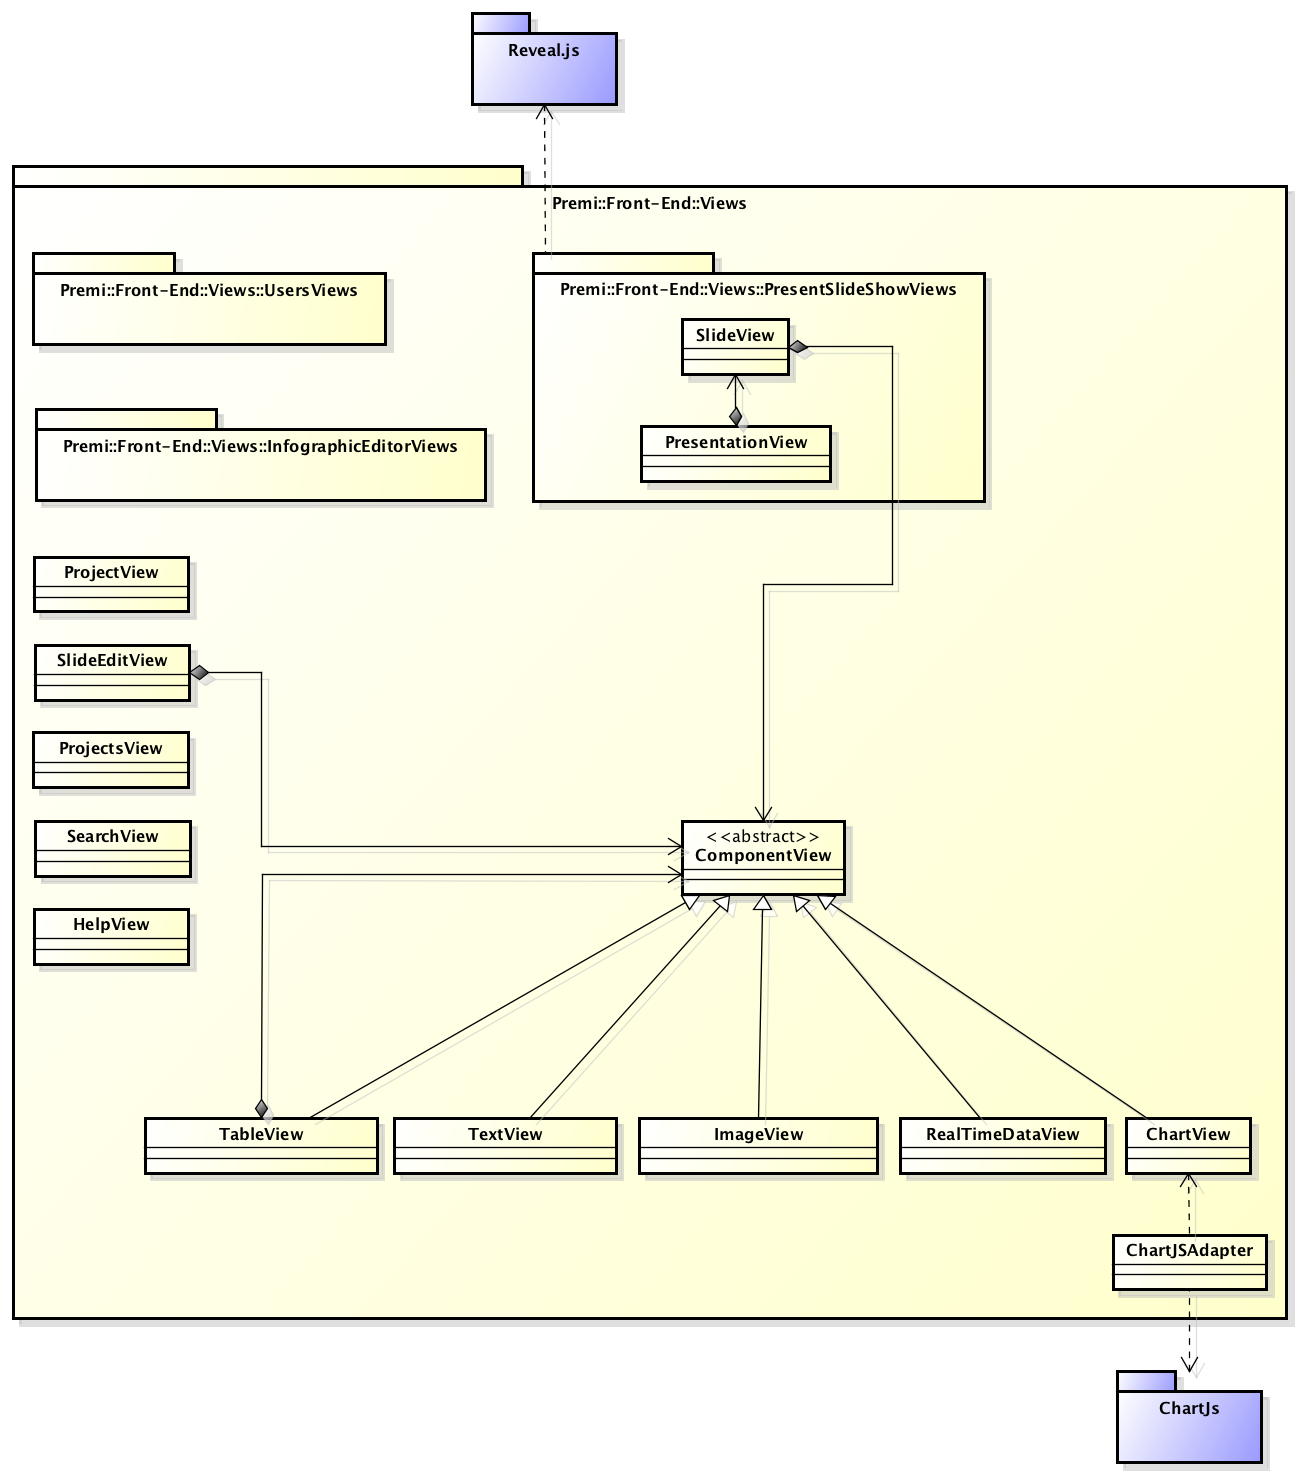
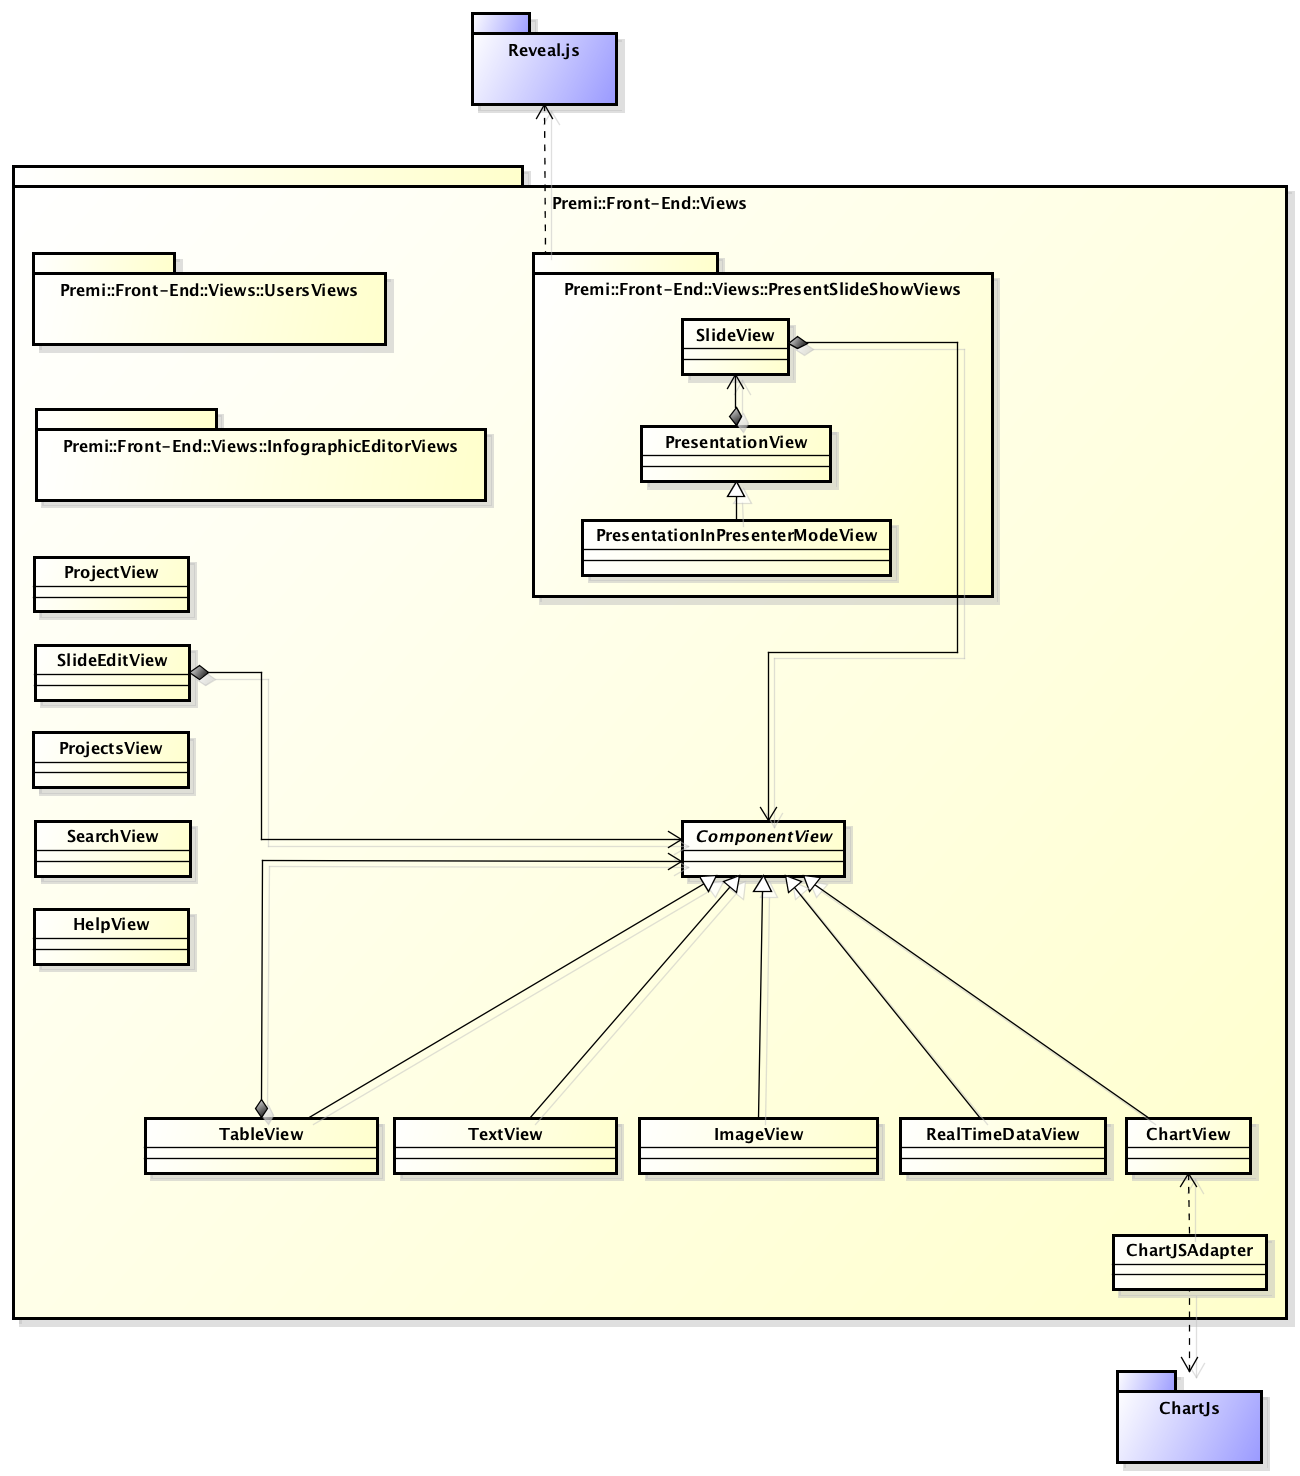
documento verificato e corretto

diff --git a/esterni/specifica_tecnica/section/diagrammi_di_attivita.tex b/esterni/specifica_tecnica/section/diagrammi_di_attivita.tex
@@ -15,7 +15,7 @@ L'utente una volta avviato il programma ha la possibilità di \textit{Effettuare
 \subsection{Ricerca di un progetto}
 \begin{figure}[h] 
 	\centering 
-	\includegraphics[scale=0.3] {img/activity_ricerca.png}
+	\includegraphics[width=0.9\linewidth] {img/activity_ricerca.png}
 	\caption{Diagramma attività - Ricerca di un progetto} 
 \end{figure}
 L'attività di ricerca di un progetto in figura 31 comprende le azioni di ricerca tramite titolo del progetto, ricerca tramite nome utente e visualizzazione dei risultati della ricerca. Una volta visualizzati i risultati, opzionalmente l'utente può effettuare un'altra ricerca.
@@ -24,7 +24,7 @@ L'attività di ricerca di un progetto in figura 31 comprende le azioni di ricerc
 \subsection{Visualizzare un progetto}
 \begin{figure}[h] 
 	\centering 
-	\includegraphics[scale=0.3] {img/activity_visualizza.png}
+	\includegraphics[width=0.9\linewidth] {img/activity_visualizza.png}
 	\caption{Diagramma attività - Visualizzare un progetto} 
 \end{figure}
 L'attività di visualizzazione di un progetto in figura 32 permette all'utente, una volta scelto il progetto, di visualizzare la presentazione oppure l'\gls{infografica} legata al progetto (se essa é disponibile). Nel caso si scelga di visualizzare una presentazione l'utente può scegliere se visualizzarla in modalità ascoltatore o presentatore, una volta fatta la decisione si può muovere tra le \gls{slide}.
@@ -44,7 +44,7 @@ La figura 33 rappresenta l'attività di registrazione di un utente. Una volta pr
 \subsection{Autenticazione}
 \begin{figure}[h] 
 	\centering 
-	\includegraphics[scale=0.3] {img/activity_login.png}
+	\includegraphics[width=0.9\linewidth] {img/activity_login.png}
 	\caption{Diagramma attività - Autenticazione} 
 \end{figure}
 L'attività di autenticazione in figura 34 permette all'utente di inserire le proprie credenziali, di annullarne l'inserimento nel caso in cui si sbagli a digitarle e di confermarle. Nel caso in cui l'utente non ricordi più le proprie credenziali ha la possibilità di eseguire la procedura di recupero dei propri dati, alla fine della quale viene riportato alla pagina di login.
@@ -54,7 +54,7 @@ L'attività di autenticazione in figura 34 permette all'utente di inserire le pr
 \subsection{Creazione di un progetto}
 \begin{figure}[h] 
 	\centering 
-	\includegraphics[scale=0.3] {img/activity_creazione.png}
+	\includegraphics[width=0.6\linewidth] {img/activity_creazione.png}
 	\caption{Diagramma attività - Creazione di un progetto} 
 \end{figure}
 L'attività di creazione in figura 35 permette ad un utente autenticato di creare un nuovo progetto, di selezionare dove sarà salvato il progetto e richiede di inserire un titolo e di scegliere un \gls{template}.
@@ -64,7 +64,7 @@ L'attività di creazione in figura 35 permette ad un utente autenticato di crear
 \subsection{Apertura di un progetto}
 \begin{figure}[h] 
 	\centering 
-	\includegraphics[scale=0.3] {img/activity_apertura.png}
+	\includegraphics[width=0.7\linewidth] {img/activity_apertura.png}
 	\caption{Diagramma attività - Apertura di un progetto} 
 \end{figure}
 L'attività di apertura di un progetto in figura 36 permette all'utente di navigare il file system e di scegliere quale progetto deve essere aperto.
@@ -73,7 +73,7 @@ L'attività di apertura di un progetto in figura 36 permette all'utente di navig
 \subsection{Modifica di un progetto}
 \begin{figure}[h] 
 	\centering 
-	\includegraphics[scale=0.3] {img/activity_modifica.png}
+	\includegraphics[width=0.9\linewidth] {img/activity_modifica.png}
 	\caption{Diagramma attività - Modifica di un progetto} 
 \end{figure}
 L'attività di modifica in figura 37 permette all'utente di inserire e modificare elementi (come testo, immagini, grafici, ecc...) nella presentazione corrente. L'utente può inoltre aggiungere e rimuovere \gls{slide}, scegliere un diverso \gls{template} e cambiare l'effetto di transizione tra una \gls{slide} e l'altra.
@@ -82,7 +82,7 @@ L'attività di modifica in figura 37 permette all'utente di inserire e modificar
 \subsection{Salvataggio di un progetto}
 \begin{figure}[h] 
 	\centering 
-	\includegraphics[scale=0.3] {img/activity_salvataggio.png}
+	\includegraphics[width=0.6\linewidth] {img/activity_salvataggio.png}
 	\caption{Diagramma attività - Salvataggio di un progetto} 
 \end{figure}
 La figura 38 rappresenta l'attività di salvataggio di un progetto. Lo schema indica la possibilità per l'utente di navigare il file system e di scegliere un nome per il progetto da salvare o di selezionare un progetto già esistente da sovrascrivere.

diff --git a/esterni/specifica_tecnica/section/front_end_views.tex b/esterni/specifica_tecnica/section/front_end_views.tex
@@ -1,7 +1,7 @@
 	\subsubsection*{Informazioni sul package}
 		\begin{figure}[h]
 			\centering
-			\includegraphics[width=0.7\linewidth]{img/front-end_views}
+			\includegraphics[width=0.9\linewidth]{img/front-end_views}
 			\caption[Premi::Front-End::Views]{Premi::Front-End::Views}
 		\end{figure}
 		Il package contiene gli elementi per creare la parte grafica del \gls{front-end}, la visualizzazione delle pagine e dell'editor del progetto.
@@ -35,7 +35,7 @@
 
 		\item Premi::Front-End::Views::ProjectView:
 		\begin{itemize}
-			\item \textbf{Descrizione}: classe per la gestione della pagina del progetto attualmente aperto dall'utente.
+			\item \textbf{Descrizione}: classe per la gestione di una pagina relativa ad un progetto.
 		\end{itemize}
 
 		\item Premi::Front-End::Views::SlideEditView:
@@ -171,19 +171,27 @@
 		\begin{itemize}
 			\item Premi::Front-End::Views::PresentSlideShowViews::SlideView:
 			\begin{itemize}
-				\item \textbf{Descrizione}: classe per creare la parte grafica di una \gls{slide} nella visualizzazione di una presentazione. È composta da oggetti della classe ComponentView,o sue derivate;
+				\item \textbf{Descrizione}: classe per creare la parte grafica di una \gls{slide} nella visualizzazione di una presentazione. È composta da oggetti della classe ComponentView;
 				\item \textbf{Relazioni con altre classi}:
 				\begin{itemize}
 					\item Premi::Front-End::Views::ComponentView.
 				\end{itemize}
 			\end{itemize}
+				\item Premi::Front-End::Views::PresentSlideShowViews::PresentationView:
+				\begin{itemize}
+					\item \textbf{Descrizione}: classe per creare la parte grafica di una \gls{slide} nella visualizzazione di una presentazione;
+					\item \textbf{Relazioni con altre classi}:
+					\begin{itemize}
+						\item Premi::Front-End::Views::SlideView.
+					\end{itemize}
+				\end{itemize}
 
 			\item Premi::Front-End::Views::PresentSlideShowViews::PresentationInPresenterModeView:
 			\begin{itemize}
-				\item \textbf{Descrizione}: classe per creare la parte grafica di una \gls{slide} nella visualizzazione di una presentazione nella modalità presentatore. È composta da oggetti della classe SlideView in quanto la contiene implementandola;
+				\item \textbf{Descrizione}: classe per creare la parte grafica di una \gls{slide} nella visualizzazione di una presentazione nella modalità presentatore. Estende la classe Premi::Front-End::Views::PresentSlideShowViews::PresentationView;
 				\item \textbf{Relazioni con altre classi}:
 				\begin{itemize}
-					\item Premi::Front-End::Views::PresentSlideShowViews::SlideView.
+					\item Premi::Front-End::Views::PresentSlideShowViews::PresentationView.
 				\end{itemize}
 			\end{itemize}
 		\end{itemize}

diff --git a/esterni/specifica_tecnica/section/front_end_controller.tex b/esterni/specifica_tecnica/section/front_end_controller.tex
@@ -91,7 +91,16 @@
 			\end{itemize}
 			
 		\end{itemize}
+		
+\newpage
 \subsection{Premi::Front-End::Controller::PresentSlideShowController}
+\begin{figure}[h]
+\centering
+\includegraphics[width=0.7\linewidth]{img/front-end_controller_presentslideshowcontroller}
+\caption[Premi::Front-End::Controller::PresentSlideShowController]{Premi::Front-End::Controller::PresentSlideShowController}
+\label{fig:front-end_controller_presentslideshowcontroller}
+\end{figure}
+
 	\begin{itemize}
 		 \item Premi::Front-End::Controller::PresentSlideShowController::SlideController:
 			\begin{itemize}
@@ -108,7 +117,15 @@
 			\end{itemize}
 	\end{itemize}
 	
+\newpage	
 \subsection{Premi::Front-End::Controller::InfographicEditorController}
+\begin{figure}[h]
+\centering
+\includegraphics[width=0.7\linewidth]{img/front-end_controller_infographiceditorcontroller}
+\caption[Premi::Front-End::Controller::InfographicEditorController]{Premi::Front-End::Controller::InfographicEditorController}
+\label{fig:front-end_controller_infographiceditorcontroller}
+\end{figure}
+
 	\begin{itemize}
 		 \item Premi::Front-End::Controller::InfographicEditorController::InfographicEditorController:
 			\begin{itemize}
@@ -121,6 +138,13 @@
 	\end{itemize}
 	
 \subsection{Premi::Front-End::Controller::UserController}
+\begin{figure}[h]
+\centering
+\includegraphics[width=0.7\linewidth]{img/front-end_controller_usercontroller}
+\caption[Premi::Front-End::Controller::UserController]{Premi::Front-End::Controller::UserController}
+\label{fig:front-end_controller_usercontroller}
+\end{figure}
+
 	\begin{itemize}
 		% \item Premi::Front-End::Controller::UserController::UserController:
 		%	\begin{itemize}

diff --git a/esterni/specifica_tecnica/section/front_end_model.tex b/esterni/specifica_tecnica/section/front_end_model.tex
@@ -10,7 +10,7 @@
 		\begin{itemize}
 		 \item Premi::Front-End::Model::Projects:
 			\begin{itemize}
-				\item \textbf{Descrizione}:classe per la gestione di una collezione di progetti.Un progetto racchiude una presentazione e zero o più infografiche.
+				\item \textbf{Descrizione}: classe per la gestione di una collezione di progetti.Un progetto racchiude una presentazione e zero o più infografiche.
 				\item \textbf{Relazioni con altre classi}:
 				\begin{itemize}
 					\item Premi::Front-End::Model::Project.
@@ -21,13 +21,13 @@
 				\item \textbf{Descrizione}: classe per la gestione di un progetto.
 				\item \textbf{Relazioni con altre classi}:
 				\begin{itemize}
-					\item Premi::Front-End::Model::Presentation.
+					\item Premi::Front-End::Model::Presentation;
 					\item Premi::Front-End::Model::Infographic.
 				\end{itemize}
 			\end{itemize}
 		 \item  Premi::Front-End::Model::Infographic:
 			\begin{itemize}
-				\item \textbf{Descrizione}: classe per la gestione di una \gls{infografica}. Un'\gls{infografica} ha il compito di raggruppare piu \gls{slide} in un \gls{template} grafico scelto dall'utente in un ordine impostabile di volta in volta.
+				\item \textbf{Descrizione}: classe per la gestione di una \gls{infografica}. Un'\gls{infografica} ha il compito di raggruppare più \gls{slide} in un \gls{template} grafico scelto dall'utente in un ordine impostabile di volta in volta.
 				\item \textbf{Relazioni con altre classi}:
 				\begin{itemize}
 					\item Premi::Front-End::Model::Slide.

diff --git a/esterni/specifica_tecnica/section/architettura_back_end.tex b/esterni/specifica_tecnica/section/architettura_back_end.tex
@@ -1,4 +1,4 @@
-\subsection{Premi::\gls{Back-End}}
+\subsection{Premi::Back-End}
 	\subsubsection*{Informazioni sul package}
 		\begin{figure}[h]
 			\centering
@@ -27,7 +27,7 @@
 		
 	\subsubsection*{Package contenuti}
 		\begin{itemize}
-			\item Premi::Back-End::Data-Tier::REST:
+			\item Premi::Back-End::Presentation-Tier::Rest:
 			\begin{itemize}
 				\item \textbf{Descrizione}: Il package contiene la struttura necessaria al funzionamento delle chiamate \gls{REST} da parte del \gls{front-end}, richiamando i rispettivi controller.
 			\end{itemize}
@@ -39,7 +39,7 @@
 	\subsubsection*{Informazioni sul package}
 	\begin{figure}[h]
 		\centering
-		\includegraphics[width=0.9\linewidth]{img/back-end_logic-tier_package}
+		\includegraphics[width=\linewidth]{img/back-end_logic-tier_package}
 		\caption[Premi::Back-End::Logic-Tier]{Premi::Back-End::Logic-Tier}
 	\end{figure}
 	Il package contiene le componenti che si occupano di ricevere le richieste dal Presentation-Tier e di elaborarle attraverso il controller.

diff --git a/esterni/specifica_tecnica/diario_modifiche.tex b/esterni/specifica_tecnica/diario_modifiche.tex
@@ -37,9 +37,9 @@
 	\midrule
 		\textit{Stesura sottosezione 4.8 e 4.9} & Fabio Ros & \textit{Progettista} & 2015-05-15 & v0.0.22 \\
 	\midrule
-		\textit{Stesura sezione 6-Design Pattern e relative sottosezioni} & Bogdan Suierica & \textit{Progettista} & 2015-05-15 & v0.0.21 \\
+		\textit{Stesura sezione 6-Design Pattern e relative sottosezioni} & Suierica Bogdan & \textit{Progettista} & 2015-05-15 & v0.0.21 \\
 	\midrule
-		\textit{Stesura sottosezione 4.7} & Fabio Ros & \textit{Progettista} & 2015-05-14 & v0.0.20 \\
+		\textit{Stesura sottosezione 4.7} & Ros Fabio & \textit{Progettista} & 2015-05-14 & v0.0.20 \\
 	\midrule
 		\textit{Inizio stesura sottosezione 5.8} & Burlin Valerio & \textit{Progettista} & 2015-05-13 & v0.0.19 \\
 	\midrule

diff --git a/esterni/specifica_tecnica/section/architettura_front_end.tex b/esterni/specifica_tecnica/section/architettura_front_end.tex
@@ -10,8 +10,8 @@
 		\subsubsection*{Package contenuti:}
 			\begin{itemize}
 				\item \textbf{View:} Package contenente le views della componente \gls{front-end} dell'applicazione;
-				\item \textbf{Directives:} Package contenente le directives che compongono la view;
-				\item \textbf{Model:} Package che definiscono la \gls{business} logic dell'applicazione;
+				\item \textbf{Directives:} Package contenente le direttive che compongono la view;
+				\item \textbf{Model:} Package che definiscono la logica di business dell'applicazione;
 				\item \textbf{Controller:} Package contenente i controller della parte \gls{front-end} dell'applicazione.
 			\end{itemize}
 
